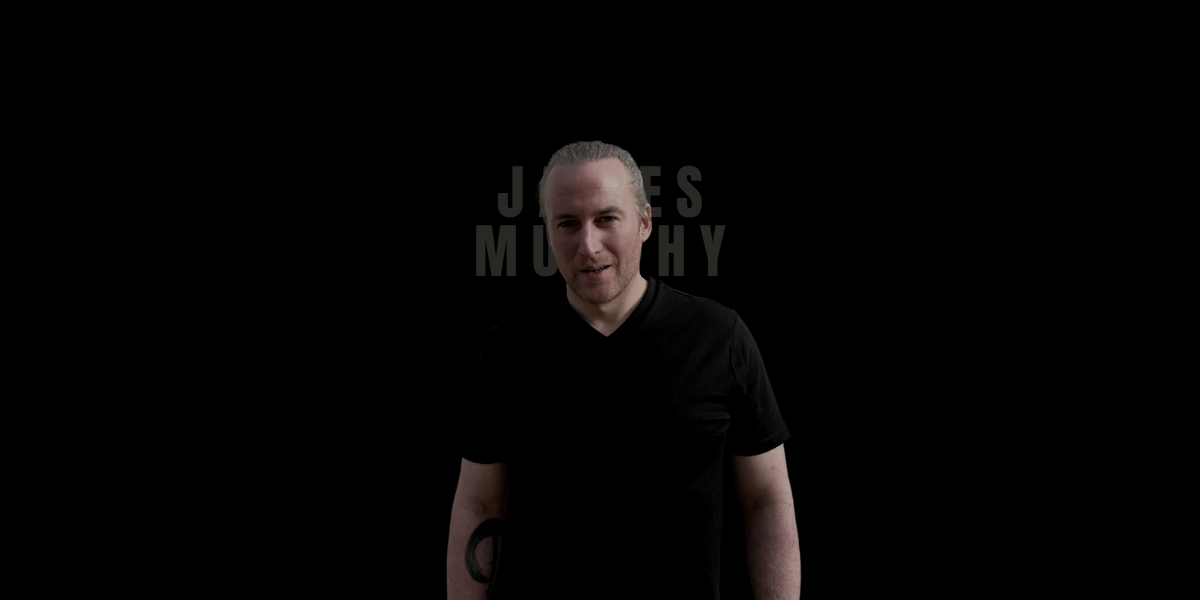
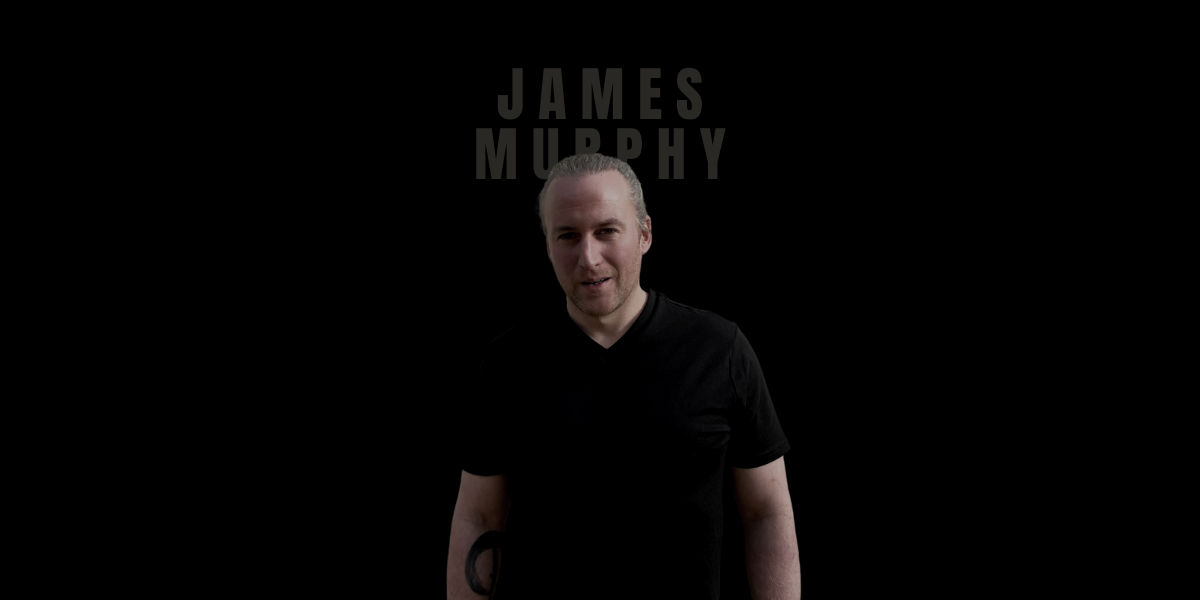
Add hero

diff --git a/index.html b/index.html
@@ -28,7 +28,7 @@
                 <div class="topnav" id="myTopnav">
 
                     <a href="about.html" class="active">About</a>
-                    <a href="portfolio.html">Portfoli</a>
+                   
 
 
                     <div class="dropdown">

diff --git a/assets/css/style.css b/assets/css/style.css
@@ -246,7 +246,7 @@ nav {
   width: auto;
   object-fit: contain;
   overflow: hidden;
-  background: url(../images/jm) no-repeat center center;
+  background: url(../images/jm-hero2.png) no-repeat center center;
 }
 
 @media screen and (max-width: 968px) {
